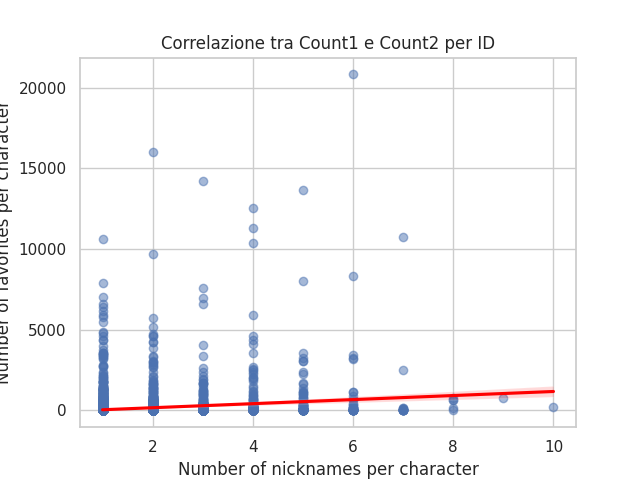
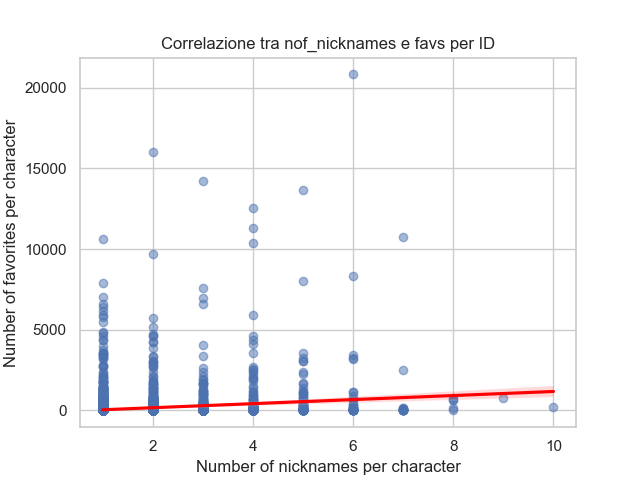
created db postgres connection

diff --git a/solution/dbconnection.py b/solution/dbconnection.py
@@ -1,0 +1,28 @@
+import pandas as pd
+from dotenv import load_dotenv
+from sqlalchemy import create_engine
+import os
+
+
+# CONFIGURAZIONE
+db_config = {
+    'user': '',
+    'password': '',
+    'host': '',
+    'port': 0,
+    'database': ''
+}
+
+def load_config(path='.env'):
+    load_dotenv(path)
+    db_config['user'] = os.getenv('DB_USER')
+    db_config['password'] = os.getenv('DB_PASS')
+    db_config['host'] = os.getenv('DB_HOST')
+    db_config['port'] = os.getenv('DB_PORT')
+    db_config['database'] = os.getenv('DB_NAME')
+
+
+def create_db_engine(path='.env'):
+    load_config(path)
+    db_url = f"postgresql://{db_config['user']}:{db_config['password']}@{db_config['host']}:{db_config['port']}/{db_config['database']}"
+    return create_engine(db_url)

diff --git a/solution/readSaveCsv.py b/solution/readSaveCsv.py
@@ -1,0 +1,24 @@
+from sqlalchemy import Engine
+import pandas as pd
+
+
+def load_csv_file(engine: Engine, table: str):
+    try:
+        query = f"SELECT * FROM {table}"
+        df = pd.read_sql(query, engine)
+
+        print(f"Successo: Dati letti correttamente.")
+        return df
+
+    except Exception as e:
+        print(f"Errore durante l'esportazione dal DB: {e}")
+        return None
+
+
+def save_csv_file(df, file, engine):
+    try:
+        df.to_sql(file, engine, if_exists="replace", index=False)
+        print(f"Successo: {len(df)} righe caricate nella tabella '{file}'.")
+
+    except Exception as e:
+        print(f"Errore durante il caricamento nel DB: {e}")
